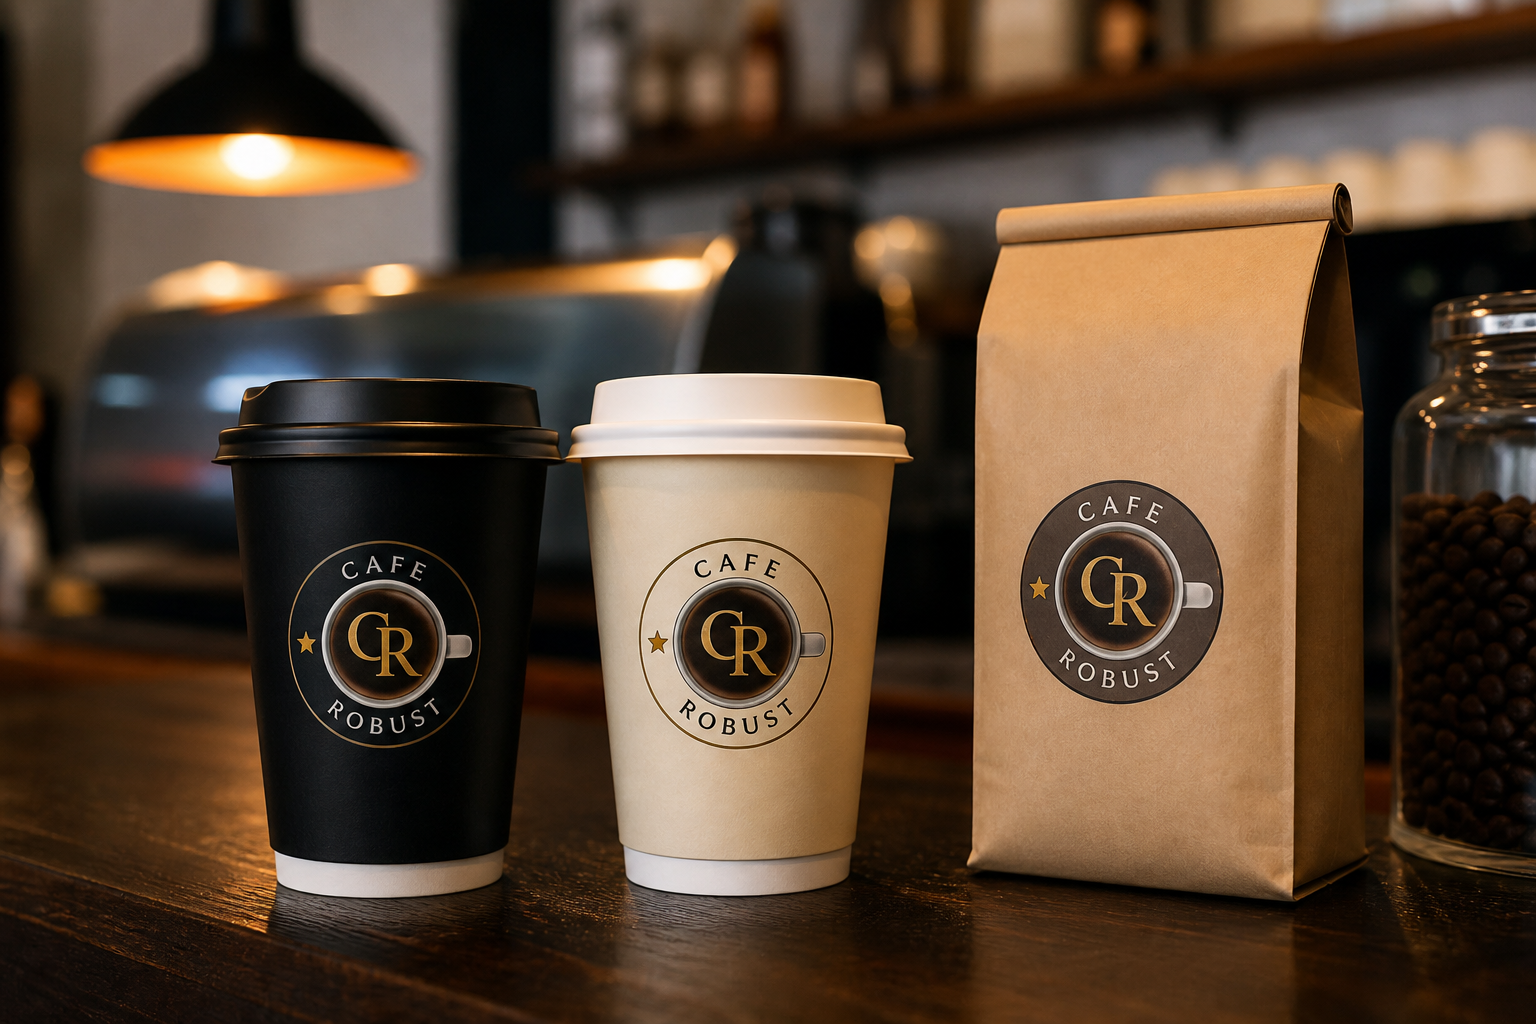
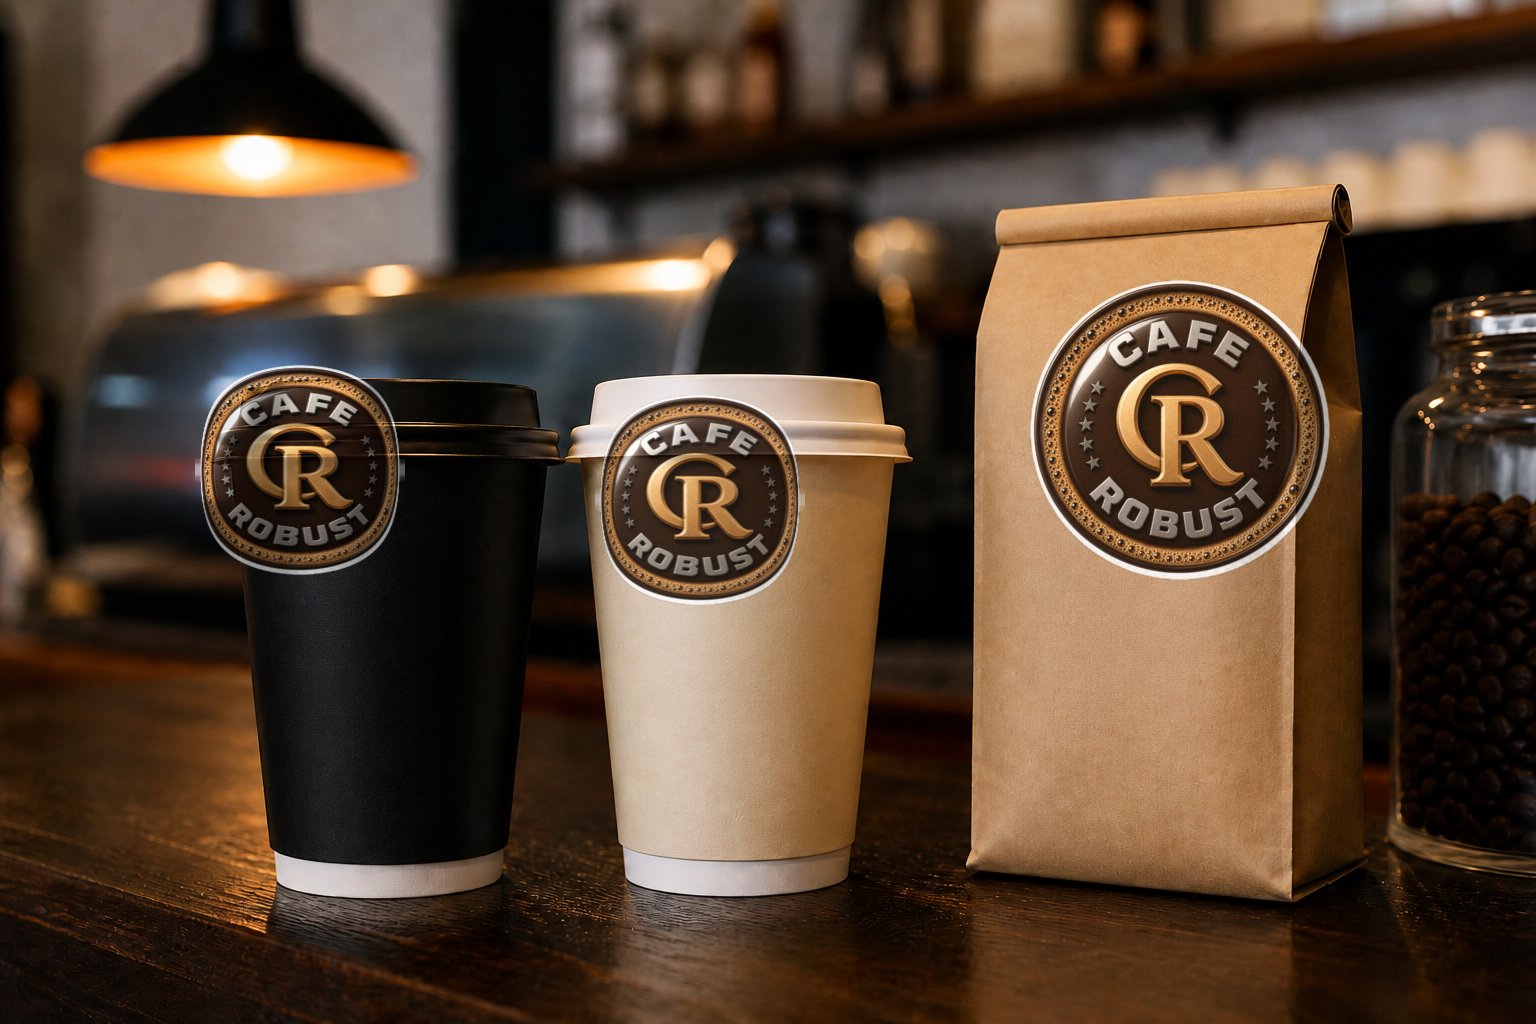
Put the official Cafe Robust seal on the cups and bag.
Stamp the uploaded CR crema badge on the blank cups and kraft bag, add the runner illustration, and stop using the placeholder circle on the sleeve.

diff --git a/dphilhower-studio-wp/preview/work/cafe-robust/index.html b/dphilhower-studio-wp/preview/work/cafe-robust/index.html
@@ -4,7 +4,7 @@
   <meta charset="utf-8">
   <meta name="viewport" content="width=device-width, initial-scale=1">
   <title>Cafe Robust — D Philhower Studio</title>
-  <meta name="description" content="Cafe Robust identity and print by D Philhower Studio: chalkboard menu, CR cup mark, cups, and window.">
+  <meta name="description" content="Cafe Robust identity and print by D Philhower Studio: official CR crema seal, cups, bag, window, and illustration.">
   <link rel="icon" href="../../img/favicon.svg" type="image/svg+xml">
   <link rel="preconnect" href="https://fonts.googleapis.com">
   <link rel="preconnect" href="https://fonts.gstatic.com" crossorigin>
@@ -42,25 +42,29 @@
       </ul>
       <div class="entry-content">
         <p>A chalkboard that tries to look handmade usually looks cheap. This one is drawn as a sign: gold filigree, a cup from above, and a list you can read from the door.</p>
-        <p>The circular CR mark is the drink seen from above — the same ring as the foam. Tan script is premium without becoming wedding stationery. Prices sit in two columns so 16 and 20 don’t fight the names. Cups and the window carry the same seal so the board is not a one-off poster.</p>
+        <p>The official seal is the crema ring: gold CR, silver CAFE / ROBUST, stars, and a foam border. That badge sits on the cups and the bag. The board and window keep the cup-from-above so the shop still reads from the sidewalk.</p>
       </div>
     </article>
     <section class="brand-kit">
       <p class="section-label">Print system</p>
-      <h2 class="section-title">The board, then the cup</h2>
-      <p class="section-copy">Gold CR, tan type, chalkboard black. The menu, the sleeve, and the glass are one voice.</p>
+      <h2 class="section-title">The seal, then the sleeve</h2>
+      <p class="section-copy">Official CR badge on the cups and bag. Cup-from-above on the board and glass. One shop, two scales.</p>
       <div class="print-system">
         <figure>
-          <img src="../../img/cafe-robust-hero.png" alt="Cafe Robust chalkboard menu with CR cup mark and drink list" width="1536" height="1024">
-          <figcaption><strong>Chalkboard</strong> The uploaded board. Stars, filigree, and a cup-from-above seal so it reads as a cafe, not a template with a new name.</figcaption>
+          <img src="../../img/cafe-robust-print-seal.png" alt="Official Cafe Robust circular seal: gold CR, silver CAFE and ROBUST, stars, crema ring" width="1536" height="1024">
+          <figcaption><strong>Seal</strong> The uploaded lockup. Gold CR in the crema ring, silver CAFE / ROBUST, stars. Not a placeholder circle.</figcaption>
         </figure>
         <figure>
-          <img src="../../img/cafe-robust-print-cups.png" alt="Cafe Robust black and cream cups and kraft bag with gold CR mark" width="1536" height="1024">
-          <figcaption><strong>Cups and bag</strong> The circular mark survives a sleeve. Black cup, cream cup, kraft bag — one seal, three stocks.</figcaption>
+          <img src="../../img/cafe-robust-print-cups.png" alt="Cafe Robust black cup, kraft cup, and kraft bag stamped with the official CR seal" width="1536" height="1024">
+          <figcaption><strong>Cups and bag</strong> The official seal, centered, on black cup, kraft cup, and kraft bag.</figcaption>
         </figure>
         <figure>
           <img src="../../img/cafe-robust-print-window.png" alt="Cafe Robust storefront window with gold CR cup mark" width="1536" height="1024">
-          <figcaption><strong>Window</strong> The board, shop scale. Gold CR on glass, cream hours. The sidewalk should know the drink before the door.</figcaption>
+          <figcaption><strong>Window</strong> Cup-from-above on glass, cream hours. The sidewalk should know the drink before the door.</figcaption>
+        </figure>
+        <figure>
+          <img src="../../img/cafe-robust-print-illustration.png" alt="Comic-style illustration of a woman running with a loaf of bread and a coffee cup" width="1536" height="1024">
+          <figcaption><strong>Illustration</strong> Bread under one arm, cup in the other. The shop in motion.</figcaption>
         </figure>
       </div>
     </section>

diff --git a/dphilhower-studio-wp/theme/dphilhower-studio/style.css b/dphilhower-studio-wp/theme/dphilhower-studio/style.css
@@ -4,7 +4,7 @@ Theme URI: https://dphilhower.com
 Author: D Philhower Studio
 Author URI: https://dphilhower.com
 Description: Custom graphic design studio theme for D Philhower Studio at dphilhower.com — portfolio, services, about, and project inquiries. Activate the theme to load demo pages and work samples.
-Version: 1.0.39
+Version: 1.0.40
 Requires at least: 6.4
 Tested up to: 6.8
 Requires PHP: 7.4

diff --git a/dphilhower-studio-wp/theme/dphilhower-studio/inc/brand-kits.php b/dphilhower-studio-wp/theme/dphilhower-studio/inc/brand-kits.php
@@ -356,26 +356,32 @@ function dps_brand_kits() {
 		),
 		'cafe-robust'              => array(
 			'label'  => __( 'Print system', 'dphilhower-studio' ),
-			'title'  => __( 'The board, then the cup', 'dphilhower-studio' ),
-			'intro'  => __( 'Gold CR, tan type, chalkboard black. The menu, the sleeve, and the glass are one voice.', 'dphilhower-studio' ),
+			'title'  => __( 'The seal, then the sleeve', 'dphilhower-studio' ),
+			'intro'  => __( 'Official CR badge on the cups and bag. Cup-from-above on the board and glass. One shop, two scales.', 'dphilhower-studio' ),
 			'pieces' => array(
 				array(
-					'file'    => 'cafe-robust-hero.png',
-					'alt'     => __( 'Cafe Robust chalkboard menu with CR cup mark and drink list', 'dphilhower-studio' ),
-					'heading' => __( 'Chalkboard', 'dphilhower-studio' ),
-					'story'   => __( 'The uploaded board. Stars, filigree, and a cup-from-above seal so it reads as a cafe, not a template with a new name.', 'dphilhower-studio' ),
+					'file'    => 'cafe-robust-print-seal.png',
+					'alt'     => __( 'Official Cafe Robust circular seal: gold CR, silver CAFE and ROBUST, stars, crema ring', 'dphilhower-studio' ),
+					'heading' => __( 'Seal', 'dphilhower-studio' ),
+					'story'   => __( 'The uploaded lockup. Gold CR in the crema ring, silver CAFE / ROBUST, stars. Not a placeholder circle.', 'dphilhower-studio' ),
 				),
 				array(
 					'file'    => 'cafe-robust-print-cups.png',
-					'alt'     => __( 'Cafe Robust black and cream cups and kraft bag with gold CR mark', 'dphilhower-studio' ),
+					'alt'     => __( 'Cafe Robust black cup, kraft cup, and kraft bag stamped with the official CR seal', 'dphilhower-studio' ),
 					'heading' => __( 'Cups and bag', 'dphilhower-studio' ),
-					'story'   => __( 'The circular mark survives a sleeve. Black cup, cream cup, kraft bag — one seal, three stocks.', 'dphilhower-studio' ),
+					'story'   => __( 'The official seal, centered, on black cup, kraft cup, and kraft bag.', 'dphilhower-studio' ),
 				),
 				array(
 					'file'    => 'cafe-robust-print-window.png',
 					'alt'     => __( 'Cafe Robust storefront window with gold CR cup mark', 'dphilhower-studio' ),
 					'heading' => __( 'Window', 'dphilhower-studio' ),
-					'story'   => __( 'The board, shop scale. Gold CR on glass, cream hours.', 'dphilhower-studio' ),
+					'story'   => __( 'Cup-from-above on glass, cream hours.', 'dphilhower-studio' ),
+				),
+				array(
+					'file'    => 'cafe-robust-print-illustration.png',
+					'alt'     => __( 'Comic-style illustration of a woman running with a loaf of bread and a coffee cup', 'dphilhower-studio' ),
+					'heading' => __( 'Illustration', 'dphilhower-studio' ),
+					'story'   => __( 'Bread under one arm, cup in the other. The shop in motion.', 'dphilhower-studio' ),
 				),
 			),
 		),

diff --git a/dphilhower-studio-wp/theme/dphilhower-studio/inc/setup-content.php b/dphilhower-studio-wp/theme/dphilhower-studio/inc/setup-content.php
@@ -338,7 +338,7 @@ function dps_seed_demo_content( $force = false ) {
 			'services' => 'Identity · menu · packaging · window',
 			'year'     => '2026',
 			'location' => 'Morris County, NJ',
-			'content'  => '<p>A chalkboard that tries to look handmade usually looks cheap. This one is drawn as a sign: gold filigree, a cup from above, and a list you can read from the door.</p><p>The circular CR mark is the drink seen from above. Cups and the window carry the same seal so the board is not a one-off poster.</p>',
+			'content'  => '<p>A chalkboard that tries to look handmade usually looks cheap. This one is drawn as a sign: gold filigree, a cup from above, and a list you can read from the door.</p><p>The official seal is the crema ring: gold CR, silver CAFE / ROBUST, stars, and a foam border. That badge sits on the cups and the bag. The board and window keep the cup-from-above so the shop still reads from the sidewalk.</p>',
 		),
 		array(
 			'slug'     => 'expresso',

diff --git a/dphilhower-studio-wp/theme/dphilhower-studio/functions.php b/dphilhower-studio-wp/theme/dphilhower-studio/functions.php
@@ -9,7 +9,7 @@ if ( ! defined( 'ABSPATH' ) ) {
 	exit;
 }
 
-define( 'DPS_VERSION', '1.0.39' );
+define( 'DPS_VERSION', '1.0.40' );
 define( 'DPS_DIR', get_template_directory() );
 define( 'DPS_URI', get_template_directory_uri() );
 
